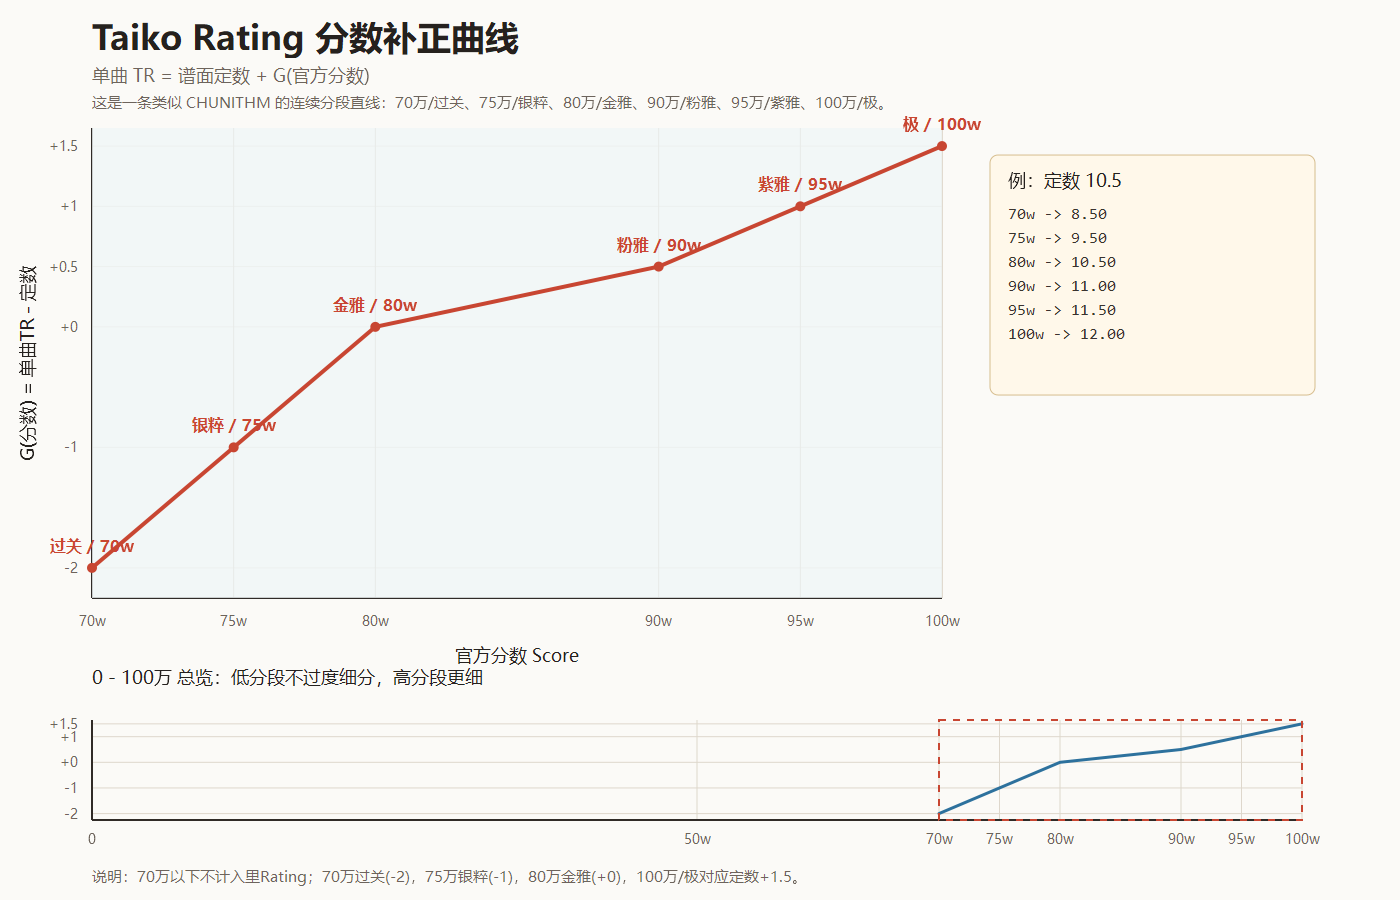
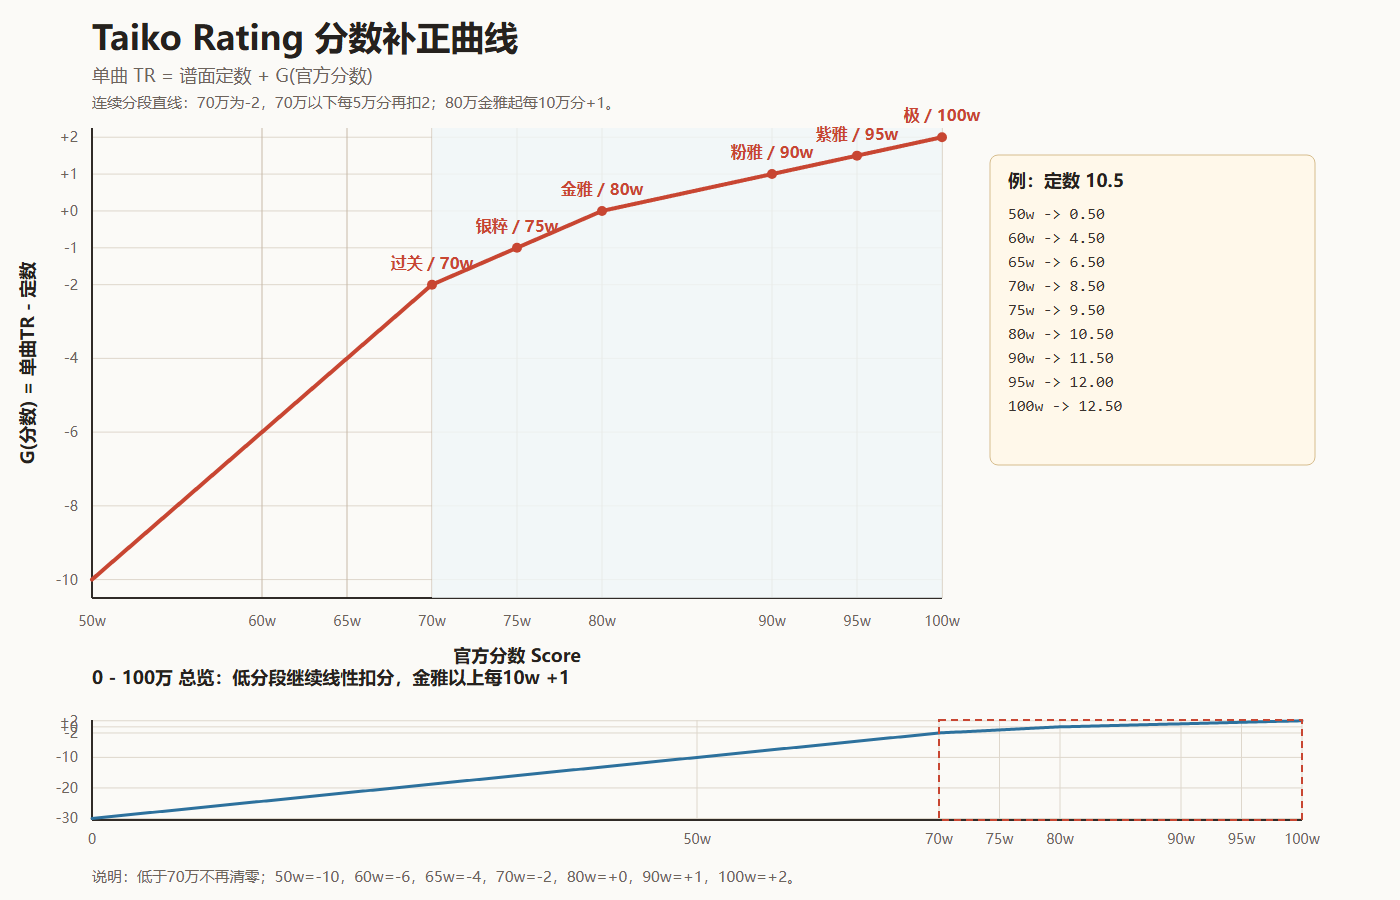
Update score curve and use B30 new rating

diff --git a/rating_image.js b/rating_image.js
@@ -76,7 +76,8 @@
 
   const IMAGE_W = 1440;
   const IMAGE_H = 1900;
-  const B20 = 20;
+  const CLASSIC_BEST_COUNT = 20;
+  const URA_BEST_COUNT = 30;
 
   function clamp(value, min, max) {
     return Math.max(min, Math.min(value, max));
@@ -87,7 +88,7 @@
     return valid.length ? valid.reduce((sum, value) => sum + value, 0) / valid.length : 0;
   }
 
-  function averageTop(values, count = B20) {
+  function averageTop(values, count = CLASSIC_BEST_COUNT) {
     return average([...values].filter(Number.isFinite).sort((a, b) => b - a).slice(0, count));
   }
 
@@ -185,21 +186,21 @@
     const classicRows = rows.map(calculateClassicSingle).filter(Boolean).sort((a, b) => b.classicSingle - a.classicSingle);
     return {
       rows: classicRows,
-      b20: classicRows.slice(0, B20),
-      rating: averageTop(classicRows.map((row) => row.classicSingle)),
+      b20: classicRows.slice(0, CLASSIC_BEST_COUNT),
+      rating: averageTop(classicRows.map((row) => row.classicSingle), CLASSIC_BEST_COUNT),
       dimensions: Object.fromEntries(
-        DIMENSIONS.map((dim) => [dim.key, averageTop(classicRows.map((row) => row.dimensions[dim.key]))]),
+        DIMENSIONS.map((dim) => [dim.key, averageTop(classicRows.map((row) => row.dimensions[dim.key]), CLASSIC_BEST_COUNT)]),
       ),
     };
   }
 
   function calculateUraMetrics(rows) {
     const uraRows = [...rows].filter((row) => Number.isFinite(row.single)).sort((a, b) => b.single - a.single || b.highScore - a.highScore);
-    const b20 = uraRows.slice(0, B20);
+    const b30 = uraRows.slice(0, URA_BEST_COUNT);
     return {
       rows: uraRows,
-      b20,
-      rating: average(b20.map((row) => row.single)),
+      b30,
+      rating: average(b30.map((row) => row.single)),
     };
   }
 
@@ -251,7 +252,7 @@
   }
 
   function formatNumber(value, digits = 2) {
-    return Number.isFinite(value) && value > 0 ? value.toFixed(digits) : "--";
+    return Number.isFinite(value) && value !== 0 ? value.toFixed(digits) : "--";
   }
 
   function formatScore(value) {
@@ -316,7 +317,7 @@
 
   function drawHeader(ctx, classic, ura, matchedCount) {
     drawText(ctx, "Taiko Rating", 96, 116, { size: 42, weight: "700", color: "#202225" });
-    drawText(ctx, "表 / 里 rating 均按 B20 计算", 98, 156, { size: 22, color: "#7b7470" });
+    drawText(ctx, "表 rating 按 B20，里 rating 按 B30 计算", 98, 156, { size: 22, color: "#7b7470" });
 
     fillRounded(ctx, 96, 210, 470, 142, 8, "#fff7f4", "#e6d7d1");
     drawText(ctx, "表 Rating", 126, 260, { size: 27, weight: "700", color: "#a23b35" });
@@ -325,7 +326,7 @@
 
     fillRounded(ctx, 96, 382, 470, 142, 8, "#f2f8fb", "#d0dde4");
     drawText(ctx, "里 Rating", 126, 432, { size: 27, weight: "700", color: "#246f92" });
-    drawText(ctx, "新公式 · B20", 126, 466, { size: 18, color: "#718089" });
+    drawText(ctx, "新公式 · B30", 126, 466, { size: 18, color: "#718089" });
     drawText(ctx, formatNumber(ura.rating), 520, 464, { size: 58, weight: "700", color: "#246f92", align: "right", baseline: "middle" });
 
     fillRounded(ctx, 96, 554, 470, 92, 8, "#ffffff", "#ded8d1");
@@ -404,15 +405,15 @@
     drawText(ctx, title, 116, y + 54, { size: 30, weight: "700", color: "#2b2826" });
     drawText(ctx, subtitle, 116, y + 88, { size: 19, color: "#7b7470" });
 
-    const cardW = 300;
-    const cardH = 66;
+    const cardW = 236;
+    const cardH = 54;
     const startX = 102;
     const startY = y + 122;
-    const gapX = 18;
-    const gapY = 16;
-    rows.slice(0, B20).forEach((row, index) => {
-      const col = index % 4;
-      const line = Math.floor(index / 4);
+    const gapX = 16;
+    const gapY = 10;
+    rows.forEach((row, index) => {
+      const col = index % 5;
+      const line = Math.floor(index / 5);
       drawSongCard(ctx, row, index, startX + col * (cardW + gapX), startY + line * (cardH + gapY), cardW, cardH, mode);
     });
   }
@@ -425,25 +426,25 @@
 
     const value = mode === "classic" ? row.classicSingle : row.single;
     drawText(ctx, String(index + 1).padStart(2, "0"), x + 16, y + 18, { size: 13, weight: "700", color: "#b0a9a4" });
-    drawText(ctx, formatNumber(value), x + 16, y + 47, {
-      size: 25,
+    drawText(ctx, formatNumber(value), x + 16, y + 41, {
+      size: 22,
       weight: "700",
       color: accent,
       baseline: "middle",
     });
     ctx.strokeStyle = "#e4ddd7";
     ctx.beginPath();
-    ctx.moveTo(x + 90, y + 12);
-    ctx.lineTo(x + 90, y + h - 12);
+    ctx.moveTo(x + 80, y + 10);
+    ctx.lineTo(x + 80, y + h - 10);
     ctx.stroke();
 
-    drawFitText(ctx, row.title, x + 106, y + 27, 142, { size: 19, weight: "700", color: "#2b2826" });
-    drawText(ctx, `${levelName(row.level)} ★${row.constant.toFixed(1)}  ${formatScore(row.highScore)}`, x + 106, y + 50, {
-      size: 15,
+    drawFitText(ctx, row.title, x + 94, y + 24, 98, { size: 16, weight: "700", color: "#2b2826" });
+    drawText(ctx, `${levelName(row.level)} ★${row.constant.toFixed(1)}`, x + 94, y + 44, {
+      size: 13,
       color: "#7b7470",
     });
-    drawText(ctx, rankLabel(row.highScore), x + w - 18, y + 35, {
-      size: 16,
+    drawText(ctx, rankLabel(row.highScore), x + w - 12, y + 28, {
+      size: 14,
       weight: "700",
       color: rankPaint(ctx, row.highScore, x + w - 82, 64),
       align: "right",
@@ -464,7 +465,7 @@
     drawHeader(ctx, classic, ura, allRows.length);
     drawRadar(ctx, classic.dimensions);
     drawSection(ctx, "表 Rating B20", "旧社区公式：定数得点 x 良率表现", classic.b20, 730, "classic");
-    drawSection(ctx, "里 Rating B20", "新公式：谱面定数 + 分数补正，70 万起计，100 万封顶", ura.b20, 1280, "new");
+    drawSection(ctx, "里 Rating B30", "新公式：谱面定数 + 分数补正，低分不清零，100 万封顶", ura.b30, 1280, "new");
     drawText(ctx, "Taiko Rating System | 由菌菌成绩与本地谱面库生成", IMAGE_W / 2, IMAGE_H - 74, {
       size: 22,
       color: "#aaa19b",

diff --git a/app.js b/app.js
@@ -1,6 +1,6 @@
 const API_BASE = "https://kinoko.zorua.cn/api/v1";
-const DATA_VERSION = "20260705-local-preview";
-const RATING_BEST_COUNT = 20;
+const DATA_VERSION = "20260705-b30-curve";
+const RATING_BEST_COUNT = 30;
 const CHART_PAGE_SIZE = 10;
 
 const RADAR_DIMS = [
@@ -152,27 +152,11 @@ function isEstimatedSource(chart) {
 
 function scoreBonus(score) {
   const scoreValue = Number(score);
-  if (!Number.isFinite(scoreValue) || scoreValue < 700_000) return null;
-  const rate = Math.max(0, Math.min(scoreValue / 1_000_000, 1));
-  const anchors = [
-    [0.7, -2.0],
-    [0.75, -1.0],
-    [0.8, 0.0],
-    [0.9, 0.5],
-    [0.95, 1.0],
-    [1.0, 1.5],
-  ];
-
-  if (rate <= anchors[0][0]) return anchors[0][1];
-  for (let i = 1; i < anchors.length; i += 1) {
-    const [x1, y1] = anchors[i - 1];
-    const [x2, y2] = anchors[i];
-    if (rate <= x2) {
-      const t = (rate - x1) / (x2 - x1);
-      return y1 + (y2 - y1) * t;
-    }
-  }
-  return anchors[anchors.length - 1][1];
+  if (!Number.isFinite(scoreValue)) return null;
+  const clamped = Math.max(0, Math.min(scoreValue, 1_000_000));
+  if (clamped < 700_000) return -2 - ((700_000 - clamped) / 50_000) * 2;
+  if (clamped <= 800_000) return -2 + (clamped - 700_000) / 50_000;
+  return (clamped - 800_000) / 100_000;
 }
 
 function getUseEncoder() {
@@ -229,7 +213,7 @@ function formatSingle(value) {
 
 function formatRatingValue(value) {
   const number = Number(value);
-  return Number.isFinite(number) && number > 0 ? number.toFixed(2) : "--";
+  return Number.isFinite(number) && number !== 0 ? number.toFixed(2) : "--";
 }
 
 function rankLabel(score) {
@@ -560,7 +544,7 @@ function renderRatingTable(summary = state.ratingSummary) {
   }
 
   const width = 1900;
-  const height = 1760;
+  const height = 2400;
   const margin = 34;
   const gap = 28;
   const columnWidth = (width - margin * 2 - gap) / 2;
@@ -569,8 +553,8 @@ function renderRatingTable(summary = state.ratingSummary) {
   const headerHeight = 106;
   const sectionY = 330;
   const sections = [
-    { mode: "里", title: "里 Rating B20", subtitle: "新公式：定数 + 分数补正", x: margin, color: "#246f92", total: summary.ura?.rating },
-    { mode: "表", title: "表 Rating B20", subtitle: "旧公式：定数得点 x 良率表现", x: margin + columnWidth + gap, color: "#a23b35", total: summary.classic?.rating },
+    { mode: "里", title: "里 Rating B30", subtitle: "新公式：定数 + 分数补正", x: margin, color: "#246f92", total: summary.ura?.rating, count: RATING_BEST_COUNT },
+    { mode: "表", title: "表 Rating B20", subtitle: "旧公式：定数得点 x 良率表现", x: margin + columnWidth + gap, color: "#a23b35", total: summary.classic?.rating, count: 20 },
   ];
   const topCards = `
     <g>
@@ -585,7 +569,7 @@ function renderRatingTable(summary = state.ratingSummary) {
       <rect x="${margin + 370}" y="44" width="260" height="242" rx="8" fill="#ffffff" stroke="#d9dee5" />
       <text x="${margin + 394}" y="88" font-size="20" font-weight="800" fill="#20252b">匹配谱面</text>
       <text x="${margin + 606}" y="158" font-size="58" font-weight="800" fill="#20252b" text-anchor="end">${escapeHtml(summary.matchedCount ?? 0)}</text>
-      <text x="${margin + 394}" y="218" font-size="15" fill="#66717d">表/里 Rating 均按 B20 计算</text>
+      <text x="${margin + 394}" y="218" font-size="15" fill="#66717d">表 Rating B20 / 里 Rating B30</text>
       <text x="${margin + 394}" y="246" font-size="15" fill="#66717d">竹难度特殊谱面不计入</text>
     </g>
   `;
@@ -603,7 +587,7 @@ function renderRatingTable(summary = state.ratingSummary) {
         const entries = rows
           .map((item, index) => ({ item, index }))
           .filter((entry) => entry.item.mode === section.mode)
-          .slice(0, RATING_BEST_COUNT);
+          .slice(0, section.count);
         const y = sectionY;
         const rowSvg = entries
           .map((entry, rankIndex) => {
@@ -646,7 +630,7 @@ function renderRatingTable(summary = state.ratingSummary) {
             <text x="${section.x + 22}" y="${y + 40}" font-size="28" font-weight="800" fill="${section.color}">${section.title}</text>
             <text x="${section.x + 22}" y="${y + 70}" font-size="16" fill="#66717d">${section.subtitle}</text>
             <text x="${section.x + columnWidth - 22}" y="${y + 40}" font-size="30" font-weight="800" fill="${section.color}" text-anchor="end">${escapeHtml(formatRatingValue(section.total))}</text>
-            <text x="${section.x + columnWidth - 22}" y="${y + 68}" font-size="14" fill="#66717d" text-anchor="end">总分 / B20</text>
+            <text x="${section.x + columnWidth - 22}" y="${y + 68}" font-size="14" fill="#66717d" text-anchor="end">总分 / B${section.count}</text>
             <text x="${section.x + columnWidth - 468}" y="${y + 95}" font-size="12" fill="#8b949e" text-anchor="end">总分</text>
             <text x="${section.x + columnWidth - 358}" y="${y + 95}" font-size="12" fill="#8b949e" text-anchor="end">评价</text>
             <text x="${section.x + columnWidth - 262}" y="${y + 95}" font-size="12" fill="#8b949e" text-anchor="end">定数</text>
@@ -661,7 +645,7 @@ function renderRatingTable(summary = state.ratingSummary) {
 
   els.ratingSvgWrap.className = "rating-svg-wrap";
   els.ratingSvgWrap.innerHTML = `
-    <svg id="ratingObjectSvg" class="rating-object-svg" xmlns="http://www.w3.org/2000/svg" viewBox="0 0 ${width} ${height}" width="${width}" height="${height}" role="img" aria-label="Rating B20">
+    <svg id="ratingObjectSvg" class="rating-object-svg" xmlns="http://www.w3.org/2000/svg" viewBox="0 0 ${width} ${height}" width="${width}" height="${height}" role="img" aria-label="Rating B20/B30">
       <defs>
         <linearGradient id="rankRainbow" x1="0%" y1="0%" x2="100%" y2="0%">
           <stop offset="0%" stop-color="#e03131" />
@@ -695,7 +679,7 @@ function renderRatingDetail(item) {
   const dims = classic?.dimensions || {};
   const f = row.features || {};
   const items = [
-    ["Rating对象", `${item.mode} Rating B20`],
+    ["Rating对象", `${item.mode} Rating ${item.mode === "里" ? "B30" : "B20"}`],
     ["曲名", row.title],
     ["匹配谱面", row.constantTitle],
     ["难度", levelName(row.level)],

diff --git a/index.html b/index.html
@@ -11,7 +11,7 @@
       <header class="topbar">
         <div>
           <h1>Taiko Rating</h1>
-          <p>表 / 里 Rating · B20</p>
+          <p>表 Rating B20 / 里 Rating B30</p>
         </div>
         <div class="topbar-actions">
           <label class="toggle-line">
@@ -81,7 +81,7 @@
 
             <section class="panel">
               <div class="panel-head">
-                <h2>Rating B20</h2>
+                <h2>Rating B20 / B30</h2>
                 <div class="button-row">
                   <button id="recalculateButton" type="button">计算</button>
                   <button id="exportButton" type="button">下载 PNG</button>
@@ -189,7 +189,7 @@
       </section>
     </div>
 
-    <script src="rating_image.js?v=20260705-difficulty-png"></script>
-    <script src="app.js?v=20260705-local-preview"></script>
+    <script src="rating_image.js?v=20260705-b30-curve"></script>
+    <script src="app.js?v=20260705-b30-curve"></script>
   </body>
 </html>

diff --git a/scripts/generate_taiko_rating_curve.py b/scripts/generate_taiko_rating_curve.py
@@ -22,23 +22,19 @@ ANCHORS = [
     (700_000, -2.0, "过关 / 70w"),
     (750_000, -1.0, "银粹 / 75w"),
     (800_000, 0.0, "金雅 / 80w"),
-    (900_000, 0.5, "粉雅 / 90w"),
-    (950_000, 1.0, "紫雅 / 95w"),
-    (1_000_000, 1.5, "极 / 100w"),
+    (900_000, 1.0, "粉雅 / 90w"),
+    (950_000, 1.5, "紫雅 / 95w"),
+    (1_000_000, 2.0, "极 / 100w"),
 ]
 
 
 def bonus(score):
     score = max(0, min(score, 1_000_000))
     if score < 700_000:
-        return None
-    if score <= ANCHORS[0][0]:
-        return ANCHORS[0][1]
-    for (x1, y1, _), (x2, y2, _) in zip(ANCHORS, ANCHORS[1:]):
-        if score <= x2:
-            t = (score - x1) / (x2 - x1)
-            return y1 + (y2 - y1) * t
-    return ANCHORS[-1][1]
+        return -2.0 - ((700_000 - score) / 50_000) * 2.0
+    if score <= 800_000:
+        return -2.0 + (score - 700_000) / 50_000
+    return (score - 800_000) / 100_000
 
 
 def single_rating(score, const=10.5):
@@ -100,8 +96,8 @@ def sample(plot, fn, step):
 
 
 def make_svg():
-    main = Plot(92, 128, 850, 470, 700_000, 1_000_000, -2.25, 1.65)
-    overview = Plot(92, 720, 1210, 100, 0, 1_000_000, -2.25, 1.65)
+    main = Plot(92, 128, 850, 470, 500_000, 1_000_000, -10.5, 2.25)
+    overview = Plot(92, 720, 1210, 100, 0, 1_000_000, -30.5, 2.25)
     out = []
 
     out.append(
@@ -134,18 +130,18 @@ def make_svg():
         text(
             92,
             108,
-            "&#36825;&#26159;&#19968;&#26465;&#31867;&#20284; CHUNITHM &#30340;&#36830;&#32493;&#20998;&#27573;&#30452;&#32447;&#65306;70&#19975;/&#36807;&#20851;&#12289;75&#19975;/&#38134;&#31929;&#12289;80&#19975;/&#37329;&#38597;&#12289;90&#19975;/&#31881;&#38597;&#12289;95&#19975;/&#32043;&#38597;&#12289;100&#19975;/&#26497;&#12290;",
+            "&#36830;&#32493;&#20998;&#27573;&#30452;&#32447;&#65306;70&#19975;&#20026;-2&#65292;70&#19975;&#20197;&#19979;&#27599;5&#19975;&#20998;&#20877;&#25187;2&#65307;80&#19975;&#37329;&#38597;&#36215;&#27599;10&#19975;&#20998;+1&#12290;",
             "small",
         )
     )
 
-    for y in [-2, -1, 0, 0.5, 1.0, 1.5]:
+    for y in [-10, -8, -6, -4, -2, -1, 0, 1, 2]:
         yy = main.py(y)
         out.append(line(main.x, yy, main.x + main.w, yy, COLORS["grid"]))
         label = f"{y:+g}"
         out.append(text(main.x - 14, yy + 5, label, "tick", "end"))
 
-    for x in [700_000, 750_000, 800_000, 900_000, 950_000, 1_000_000]:
+    for x in [500_000, 600_000, 650_000, 700_000, 750_000, 800_000, 900_000, 950_000, 1_000_000]:
         xx = main.px(x)
         out.append(line(xx, main.y, xx, main.y + main.h, COLORS["grid_strong"]))
         label = f"{x // 10_000}w" if x < 1_000_000 else "100w"
@@ -177,12 +173,12 @@ def make_svg():
             out.append(text(main.px(score), main.py(value) - 16, label, "rank", "middle"))
 
     # Example panel.
-    px, py, pw, ph = 990, 155, 325, 240
+    px, py, pw, ph = 990, 155, 325, 310
     out.append(
         f'<rect x="{px}" y="{py}" width="{pw}" height="{ph}" rx="8" fill="{COLORS["panel"]}" stroke="{COLORS["panel_stroke"]}"/>'
     )
     out.append(text(px + 18, py + 32, "&#20363;&#65306;&#23450;&#25968; 10.5", "label"))
-    examples = [700_000, 750_000, 800_000, 900_000, 950_000, 1_000_000]
+    examples = [500_000, 600_000, 650_000, 700_000, 750_000, 800_000, 900_000, 950_000, 1_000_000]
     for i, score in enumerate(examples):
         rating = single_rating(score)
         result = "skip" if rating is None else f"{rating:.2f}"
@@ -196,8 +192,8 @@ def make_svg():
         )
 
     # Overview.
-    out.append(text(92, 684, "0 - 100&#19975; &#24635;&#35272;&#65306;&#20302;&#20998;&#27573;&#19981;&#36807;&#24230;&#32454;&#20998;&#65292;&#39640;&#20998;&#27573;&#26356;&#32454;", "label"))
-    for y in [-2, -1, 0, 1.0, 1.5]:
+    out.append(text(92, 684, "0 - 100&#19975; &#24635;&#35272;&#65306;&#20302;&#20998;&#27573;&#32487;&#32493;&#32447;&#24615;&#25187;&#20998;&#65292;&#37329;&#38597;&#20197;&#19978;&#27599;10w +1", "label"))
+    for y in [-30, -20, -10, -2, 0, 2]:
         yy = overview.py(y)
         out.append(line(overview.x, yy, overview.x + overview.w, yy, COLORS["grid"]))
         out.append(text(overview.x - 14, yy + 5, f"{y:+g}", "tick", "end"))
@@ -218,7 +214,7 @@ def make_svg():
         text(
             92,
             882,
-            "&#35828;&#26126;&#65306;70&#19975;&#20197;&#19979;&#19981;&#35745;&#20837;&#37324;Rating&#65307;70&#19975;&#36807;&#20851;(-2)&#65292;75&#19975;&#38134;&#31929;(-1)&#65292;80&#19975;&#37329;&#38597;(+0)&#65292;100&#19975;/&#26497;&#23545;&#24212;&#23450;&#25968;+1.5&#12290;",
+            "&#35828;&#26126;&#65306;&#20302;&#20110;70&#19975;&#19981;&#20877;&#28165;&#38646;&#65307;50w=-10&#65292;60w=-6&#65292;65w=-4&#65292;70w=-2&#65292;80w=+0&#65292;90w=+1&#65292;100w=+2&#12290;",
             "small",
         )
     )

diff --git a/scripts/build_chart_data.py b/scripts/build_chart_data.py
@@ -256,7 +256,7 @@ def make_record(
         "source": source,
         "needs_encoder": excel_row is None and fumen_row_stats is None and generated_stats is None,
         "rating_excluded": rating_excluded,
-        "rating_exclusion_reason": "竹难度为更松判定，仅作理论难度参考，不参与表/里 Rating B20" if rating_excluded else None,
+        "rating_exclusion_reason": "竹难度为更松判定，仅作理论难度参考，不参与表 Rating B20 / 里 Rating B30" if rating_excluded else None,
         "force_included": is_forced_normal(row),
         "review": {
             "matched_combo_delta": as_int(excel_row.get("combo_delta")) if excel_row else (